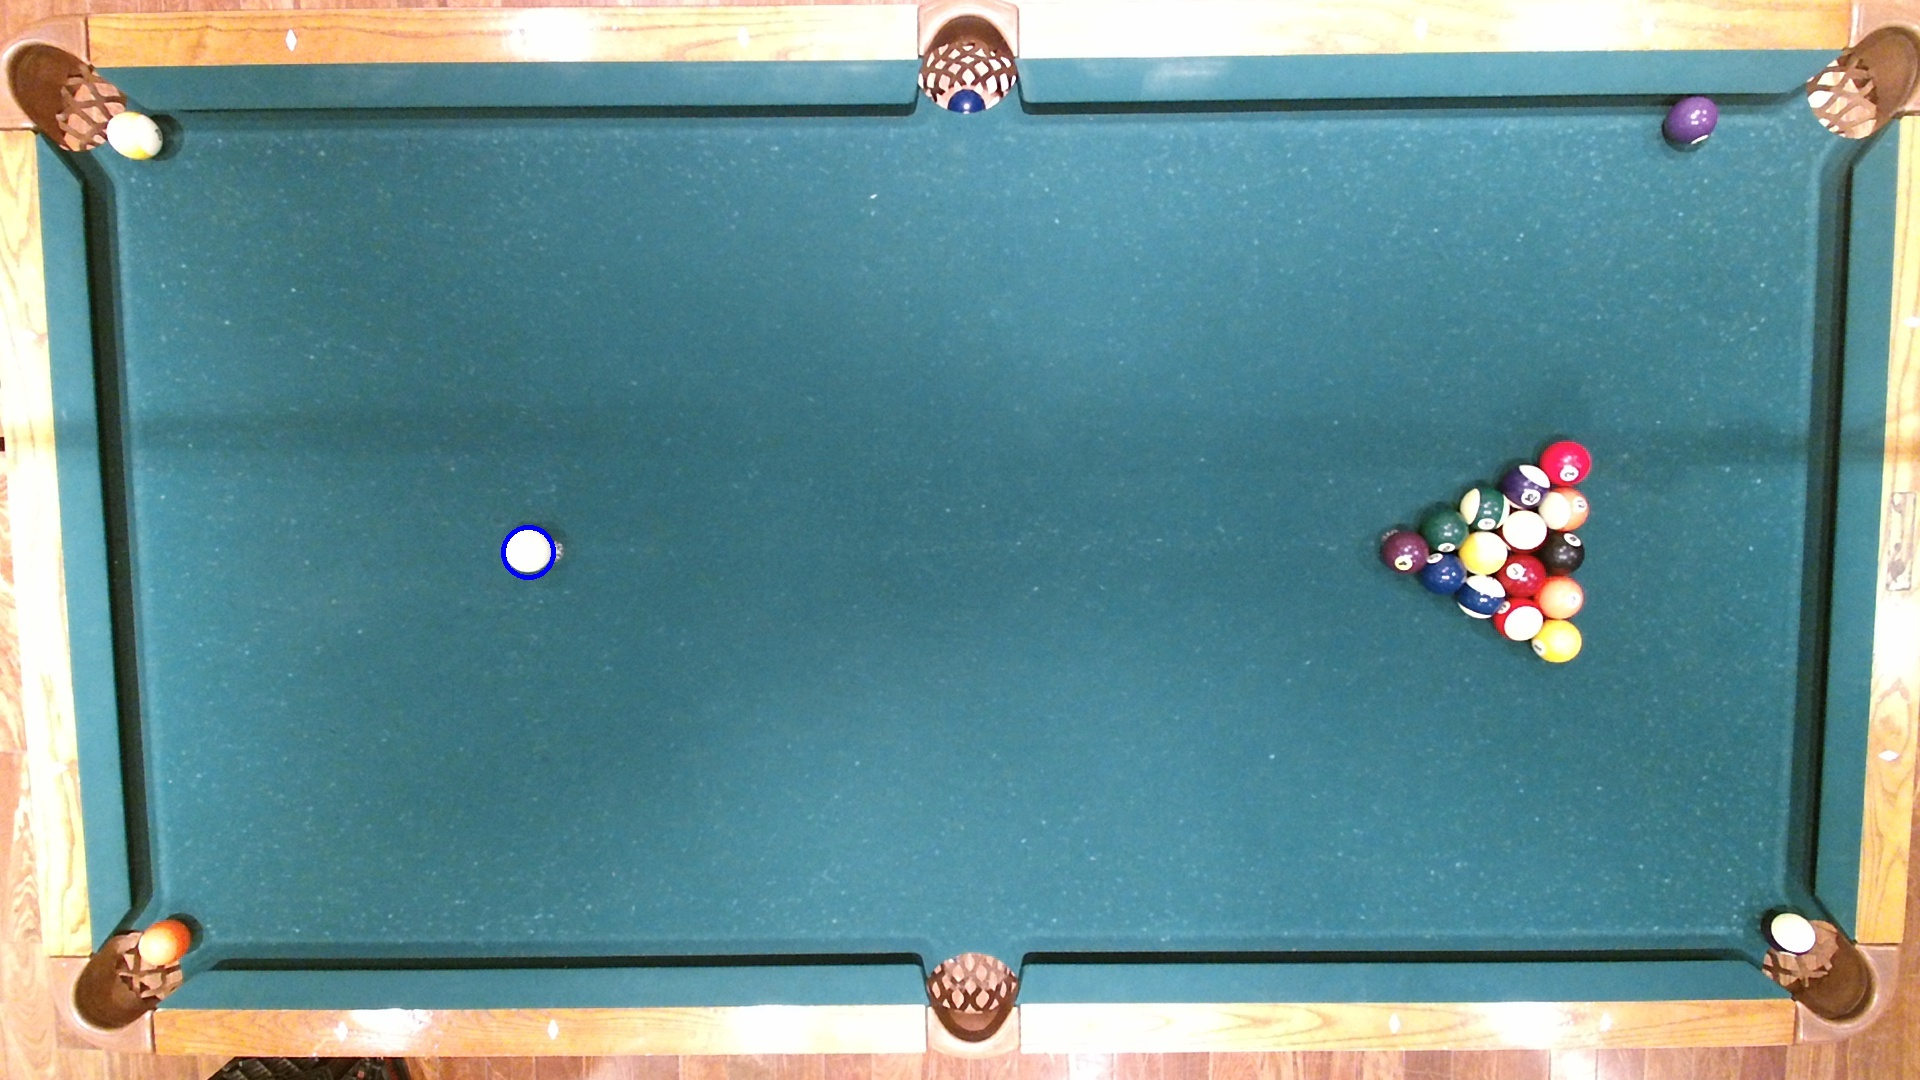
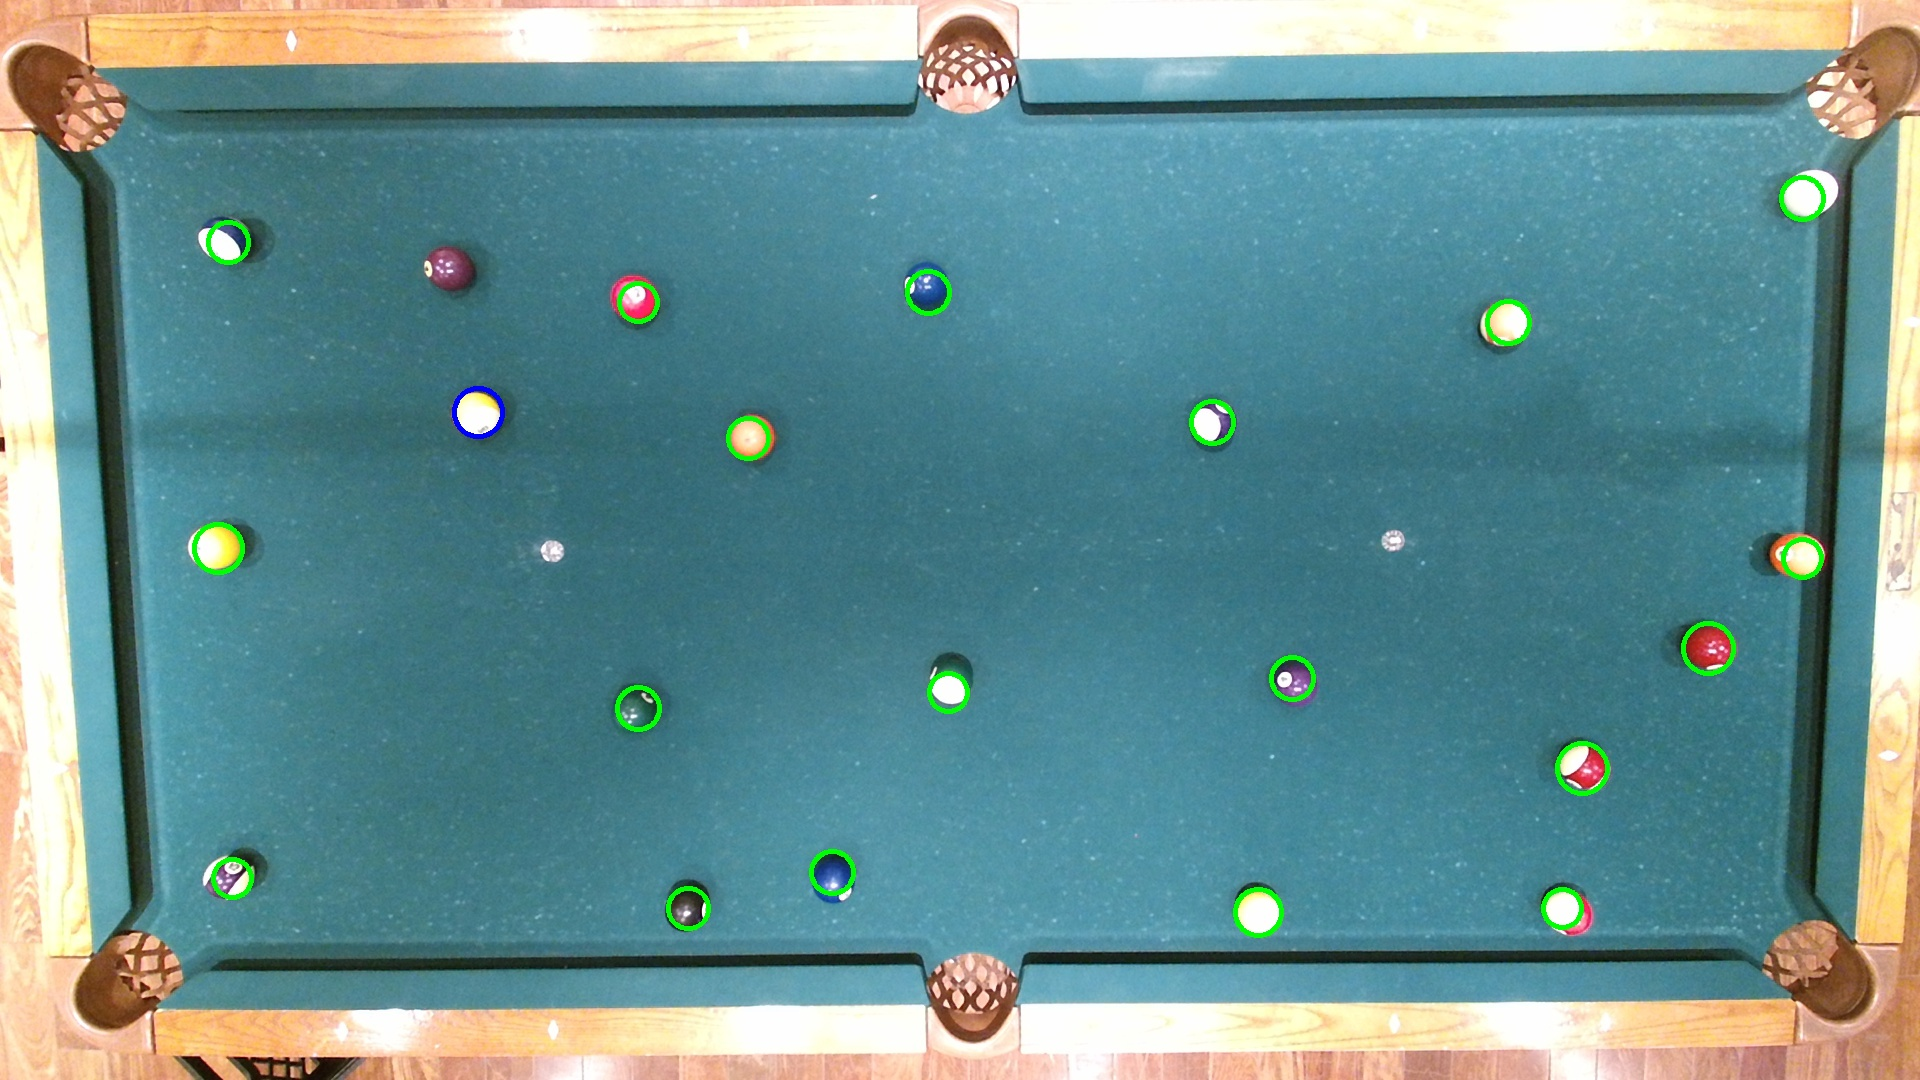
added relative conversion to meters

diff --git a/masked_background.py b/masked_background.py
@@ -36,7 +36,7 @@ def detect_balls(background_file_name, file_name):
 	#Detect circles
 	balls = cv2.HoughCircles(gray_frame, cv2.cv.CV_HOUGH_GRADIENT, 5, minDist=40, param1=100, param2=70, minRadius=17, maxRadius=30)
 	balls = np.round(balls[0, :]).astype("int")
-	print("Detected balls")
+	# print("Detected balls")
 
 	# #Blob detection
 	# detector = cv2.SimpleBlobDetector()
@@ -65,7 +65,7 @@ def detect_color(frame, balls, radius):
 	
 	cv2.imwrite("OutputSaturation.jpg", saturation_frame)
 
-	print(saturation_frame)
+	# print(saturation_frame)
 
 	ind=1
 	for (x, y, r) in balls:
@@ -103,25 +103,81 @@ def find_white_ball(frame, balls):
 	total_rgb=total_rgb[np.argsort(total_rgb[:, 0])]
 
 	(a, wx, wy, r) = total_rgb[len(balls)-1]
-	print(wx,wy)
+	# print(wx,wy)
 	cv2.circle(frame, (wx, wy), r, (255, 0, 0), 4)
 	cv2.imwrite("OutputDetectWhite.jpg", frame)
 		
 	return [i[1:] for i in total_rgb]
 
+def find_pool_table(frame, balls):
+	ctl = (103,103) # just have to change ctl and cbr
+	# ctr = (1859,103)
+	# cbl = (103,965)
+	cbr = (1859,961)
+
+	pixl = cbr[0] - ctl[0]
+	pixw = cbr[1] - ctl[1]
+
+	pooll = 2.236
+	poolw = 1.116
+	
+	l = pixl/pooll
+	w = pixw/poolw
+
+	# ctl = (75,103)
+	# ctr = (1859,103)
+	# cbl = (131,965)
+	# cbr = (1813,961)
+	
+
+	# avgx = ctl[0]+ctr[0]+cbl[0]+cbr[0]
+	# avgx/=4
+	# avgy = ctl[1]+ctr[1]+cbl[1]+cbr[1]
+	# avgy/=4
+	# cv2.line(frame, ctl, ctr, (255, 0, 0), 4)
+	# cv2.line(frame, ctr, cbr, (255, 0, 0), 4)
+	# cv2.line(frame, cbl, cbr, (255, 0, 0), 4)
+	# cv2.line(frame, cbl, ctl, (255, 0, 0), 4)
+	cv2.imwrite("OutputDetectWhite2.jpg", frame)
+	nballs=[]
+	shifted_coords=[]
+	for (x,y,r) in balls:
+		if x<cbr[0] and x>ctl[0] and y<cbr[1] and y>ctl[1]:
+			shifted_coords.append(((x-ctl[0])/l,(y-ctl[1])/w,r))
+			nballs.append((x,y,r))
+
+	for (x, y, r) in nballs:
+		cv2.circle(frame, (x, y), r, (0, 255, 0), 4)
+	# for (x, y, r) in shifted_coords:
+	# 	cv2.circle(frame, int(x), int(y), int(r), (0, 255, 0), 4)
+
+	cv2.imwrite("DetectedBalls2.jpg", frame)
+
+
+	return (frame, nballs, shifted_coords)
+
 def main():
 
 	background_file_name = 'Background_Color.jpg'
-	file_name = 'StableOutput_Color4.jpg'
+	file_name = 'StableOutput_Color1.jpg'
 	(frame, masked_frame, balls) = detect_balls(background_file_name, file_name)
 	
+	print(len(frame))
+	print(len(frame[0]))
+	print(len(frame[0][0]))
+
+	(frame, nballs, shifted_coords) = find_pool_table(frame, balls)
+
 	#print(balls)
 	#ball_colors = detect_color(frame, balls, 25)
-	balls = find_white_ball(frame, balls)
+	nballs = find_white_ball(frame, nballs)
 
 	with open('OutputBalls.csv', 'wb') as f:
 		writer=csv.writer(f)
-		writer.writerows(balls)
+		writer.writerows(nballs)
 
+	with open('OutputShiftedCoords.csv', 'wb') as f:
+		writer=csv.writer(f)
+		writer.writerows(shifted_coords)
 
 if __name__ == '__main__': main()
